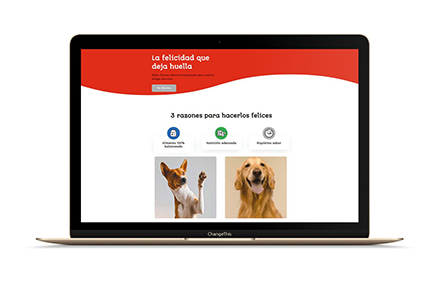
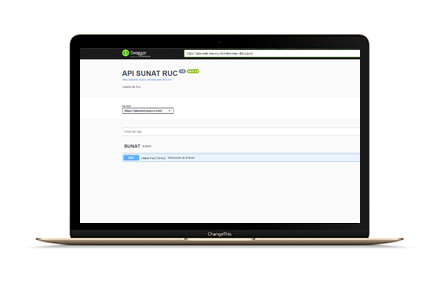
Commit portafolio projectos

diff --git a/index.html b/index.html
@@ -9,6 +9,19 @@
     <link href='https://unpkg.com/boxicons@2.1.4/css/boxicons.min.css' rel='stylesheet'>
     <link rel="stylesheet" href="styles.css">
 
+    <link href="https://cdn.jsdelivr.net/npm/bootstrap@5.0.2/dist/css/bootstrap.min.css" rel="stylesheet"
+        integrity="sha384-EVSTQN3/azprG1Anm3QDgpJLIm9Nao0Yz1ztcQTwFspd3yD65VohhpuuCOmLASjC" crossorigin="anonymous">
+    <script src="https://cdn.jsdelivr.net/npm/bootstrap@5.0.2/dist/js/bootstrap.bundle.min.js"
+        integrity="sha384-MrcW6ZMFYlzcLA8Nl+NtUVF0sA7MsXsP1UyJoMp4YLEuNSfAP+JcXn/tWtIaxVXM"
+        crossorigin="anonymous"></script>
+
+    <script src="https://cdn.jsdelivr.net/npm/@popperjs/core@2.9.2/dist/umd/popper.min.js"
+        integrity="sha384-IQsoLXl5PILFhosVNubq5LC7Qb9DXgDA9i+tQ8Zj3iwWAwPtgFTxbJ8NT4GN1R8p"
+        crossorigin="anonymous"></script>
+    <script src="https://cdn.jsdelivr.net/npm/bootstrap@5.0.2/dist/js/bootstrap.min.js"
+        integrity="sha384-cVKIPhGWiC2Al4u+LWgxfKTRIcfu0JTxR+EQDz/bgldoEyl4H0zUF0QKbrJ0EcQF"
+        crossorigin="anonymous"></script>
+
 </head>
 
 <body>
@@ -20,7 +33,7 @@
             <a href="#about" style="--i:13">Sobre mi</a>
             <a href="#services" style="--i:14">Habilidades</a>
             <a href="#portfolio" style="--i:15">Portafolio</a>
-            <a href="#contact" style="--i:16">Contactame</a>
+            <!-- <a href="#contact" style="--i:16">Contactame</a> -->
         </nav>
 
         <div class="bx bx-moon" id="darkMode-icon"></div>
@@ -34,7 +47,8 @@
             <h1>Carlos Campos</h1>
             <p>combino creatividad visual con soluciones técnicas, creando experiencias únicas y efectivas.</p>
             <div class="social-media">
-                <a href="https://www.facebook.com/profile.php?id=592155687" style="--i:7;" target="_blank"><i class="bx bxl-facebook"></i></a>
+                <a href="https://www.facebook.com/profile.php?id=592155687" style="--i:7;" target="_blank"><i
+                        class="bx bxl-facebook"></i></a>
                 <a href="https://github.com/lordniz" style="--i:8;" target="_blank"><i class='bx bxl-github'></i></a>
                 <a href="mailto:crce.aizu@gmail.com" style="--i:9;" target="_blank"><i class='bx bxl-gmail'></i></a>
                 <!-- <a href="#" style="--i:10;"><i class="bx bxl-linkedin"></i></a> -->
@@ -79,9 +93,9 @@
 
         <div class="about-content">
             <h2 class="heading">Sobre <span>Mi</span></h2>
-            <h3>¡Listo para impulsar tu próximo proyecto!  </h3>
-            <p>Imagina un código que no solo funcione, sino que inspire. Con un enfoque 
-                meticuloso en cada línea, estoy decidido a no solo alcanzar tus 
+            <h3>¡Listo para impulsar tu próximo proyecto! </h3>
+            <p>Imagina un código que no solo funcione, sino que inspire. Con un enfoque
+                meticuloso en cada línea, estoy decidido a no solo alcanzar tus
                 expectativas, sino a superarlas. Llevemos tus ideas al siguiente nivel.</p>
             <a href="#" class="btn">Leer más</a>
         </div>
@@ -96,31 +110,31 @@
             <div class="services-box">
                 <i class='bx bx-code-alt'></i>
                 <h3>Desarrollador Full Stack</h3>
-                <p>Con experiencia en desarrollo Full Stack, 
-                    he cultivado un profundo conocimiento en lenguajes como Java y PHP. Mi 
+                <p>Con experiencia en desarrollo Full Stack,
+                    he cultivado un profundo conocimiento en lenguajes como Java y PHP. Mi
                     enfoque es contruir soluciones robustas que impulsan proyectos hacia
-                    el éxito. Desde la gestión de bases 
-                    de datos hasta el despliegue a producción, estoy preparado 
+                    el éxito. Desde la gestión de bases
+                    de datos hasta el despliegue a producción, estoy preparado
                     para llevar tus ideas al siguiente nivel.</p>
                 <a href="#" class="btn">Leer más</a>
             </div>
             <div class="services-box">
                 <i class='bx bx-bar-chart-alt'></i>
                 <h3>Soporte Tecnico</h3>
-                <p>Con una sólida trayectoria en soporte técnico, proporciono soluciones 
-                    rápidas y eficientes para garantizar el funcionamiento ininterrumpido 
-                    de tus sistemas. Mi enfoque proactivo, autodidacta y experiencia en la resolución 
-                    de problemas permite mantener la estabilidad y el rendimiento óptimo, 
+                <p>Con una sólida trayectoria en soporte técnico, proporciono soluciones
+                    rápidas y eficientes para garantizar el funcionamiento ininterrumpido
+                    de tus sistemas. Mi enfoque proactivo, autodidacta y experiencia en la resolución
+                    de problemas permite mantener la estabilidad y el rendimiento óptimo,
                     brindando tranquilidad a tus operaciones tecnológicas.</p>
                 <a href="#" class="btn">Leer más</a>
             </div>
             <div class="services-box">
                 <i class='bx bxs-paint'></i>
                 <h3>Diseñador Grafico</h3>
-                <p>Con habilidades creativas y una visión estética, mi experiencia como 
-                    diseñador gráfico va más allá de lo convencional. Desde la conceptualización 
-                    hasta la ejecución, transformo ideas en imágenes impactantes. Con un enfoque 
-                    en la estética y la narrativa visual, estoy aquí para dar vida a tus conceptos 
+                <p>Con habilidades creativas y una visión estética, mi experiencia como
+                    diseñador gráfico va más allá de lo convencional. Desde la conceptualización
+                    hasta la ejecución, transformo ideas en imágenes impactantes. Con un enfoque
+                    en la estética y la narrativa visual, estoy aquí para dar vida a tus conceptos
                     y transmitir mensajes poderosos a través del diseño. </p>
                 <a href="#" class="btn">Leer más</a>
             </div>
@@ -138,17 +152,18 @@
 
                 <div class="portfolio-layer">
                     <h4>Mi Cv</h4>
-                    <p>Creado dentro de <b>Docker</b> con Laravel y levantado en un VPS.</p>
-                    <a href="./"><i class='bx bx-link-external'></i></a>
+                    <p>Creado con Laravel y levantado en un VPS.</p>
+                    <a href="./" data-bs-toggle="modal" data-bs-target="#staticBackdrop"><i
+                            class='bx bx-link-external'></i></a>
                 </div>
             </div>
             <div class="portfolio-box">
-                <img src="assets/img/R (2).jpg" alt="">
+                <img src="assets/img/R.jpg" alt="">
 
                 <div class="portfolio-layer">
-                    <h4>Reportes de Ventas</h4>
-                    <p>Un proyecto realizado con las librerias <b>echarts.</b></p>
-                    <a href="{{route('login')}}"><i class='bx bx-link-external'></i></a>
+                    <h4>Api de Ruc de SUNAT</h4>
+                    <p>Un proyecto realizado en Laravel con la libreria <b>Swagger.</b></p>
+                    <a href="https://apisunat.wujuru.click/" target="_blank"><i class='bx bx-link-external'></i></a>
                 </div>
             </div>
             <div class="portfolio-box">
@@ -160,7 +175,7 @@
                     <a href="{{route('reporte.ventas')}}"><i class='bx bx-link-external'></i></a>
                 </div>
             </div>
-            <div class="portfolio-box">
+            <!-- <div class="portfolio-box">
                 <img src="assets/img/R (1).jpg" alt="">
 
                 <div class="portfolio-layer">
@@ -186,7 +201,7 @@
                     <p>Lorem ipsum dolor sit amet consectetur adipisicing elit, est.</p>
                     <a href="#"><i class='bx bx-link-external'></i></a>
                 </div>
-            </div>
+            </div> -->
         </div>
     </section>
 
@@ -227,7 +242,7 @@
     </div>  -->
 
     <!-- contactame -->
-    <section class="contact" id="contact">
+    <!-- <section class="contact" id="contact">
         <h2 class="heading">¡Contacta<span>me!</span></h2>
 
         <form action="#">
@@ -246,7 +261,7 @@
             <input type='submit' value=" Send Message" class="btn">
 
         </form>
-    </section>
+    </section> -->
 
     <footer class="footer">
         <div class="footer-text">
@@ -260,12 +275,38 @@
 
 
     <!-- scroll reveal -->
-    <script src="https://unpkg.com/scrollreveal" ></script>
+    <script src="https://unpkg.com/scrollreveal"></script>
 
     <!-- swiper js -->
     <script src="https://cdn.jsdelivr.net/npm/swiper@9/swiper-bundle.min.js"></script>
     <!-- js -->
     <script src="script.js"></script>
+    <!-- <button type="button" class="btn btn-primary" data-bs-toggle="modal" data-bs-target="#staticBackdrop">
+        Launch static backdrop modal
+      </button> -->
+
+    <!-- Modal -->
+    <div class="modal fade" id="staticBackdrop" data-bs-backdrop="static" data-bs-keyboard="false" tabindex="-1"
+        aria-labelledby="staticBackdropLabel" aria-hidden="true">
+        <div class="modal-dialog modal-dialog-centered">
+            <div class="modal-content">
+                <div class="services-box">
+                    <div class="modal-header">
+                        
+                        <h3 class="modal-title" id="staticBackdropLabel">Despliegue en VPS</h3>
+                        <button type="button" class="btn-close" data-bs-dismiss="modal" aria-label="Close"></button>
+                    </div>
+                    <div class="modal-body">
+                        <p>Esta web me ha dado la experencia para levantar un Servidor VPS(en CONTABO), utilizando UBUNTU 22.04 LTS.
+                        Tambien me ha proporcionado conocimiento en SOFTWARE libre y manejo de WEBmin y VIRTUALmin.</p>
+                    </div>
+                    <div class="modal-footer">
+                        <button type="button" class="btn btn-secondary" data-bs-dismiss="modal">Cerrar</button>
+                    </div>
+                </div>
+            </div>
+        </div>
+    </div>
 </body>
 
 </html>

diff --git a/styles.css b/styles.css
@@ -478,6 +478,19 @@ span {
     color: #333;
 }
 
+.modal-dialog.modal-dialog-centered{
+    background: var(--bg-color);
+    padding: 1rem 1rem;    ;
+    border-radius: 2rem;
+    text-align: center;
+    border-top: .6rem solid var(--main-color);
+    border-bottom: .6rem solid var(--main-color);
+    transition: 0.5s ease;
+}
+.modal{
+    height:auto !important;
+}
+
 /*testimonios*/
 .testimonial-container {
     display: flex;
